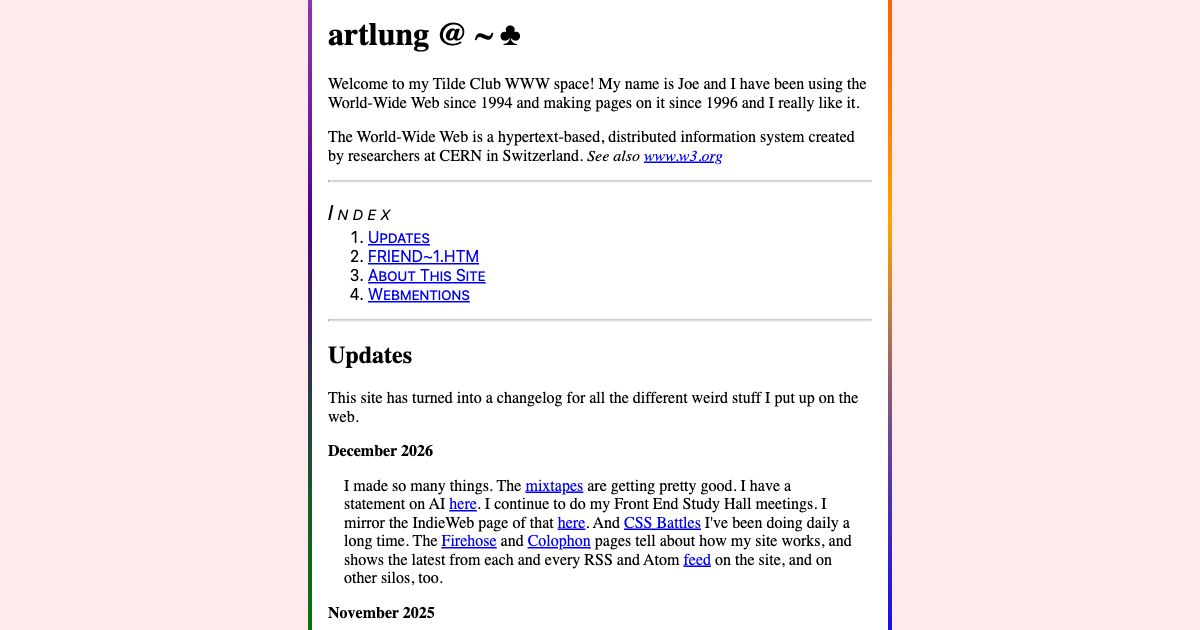
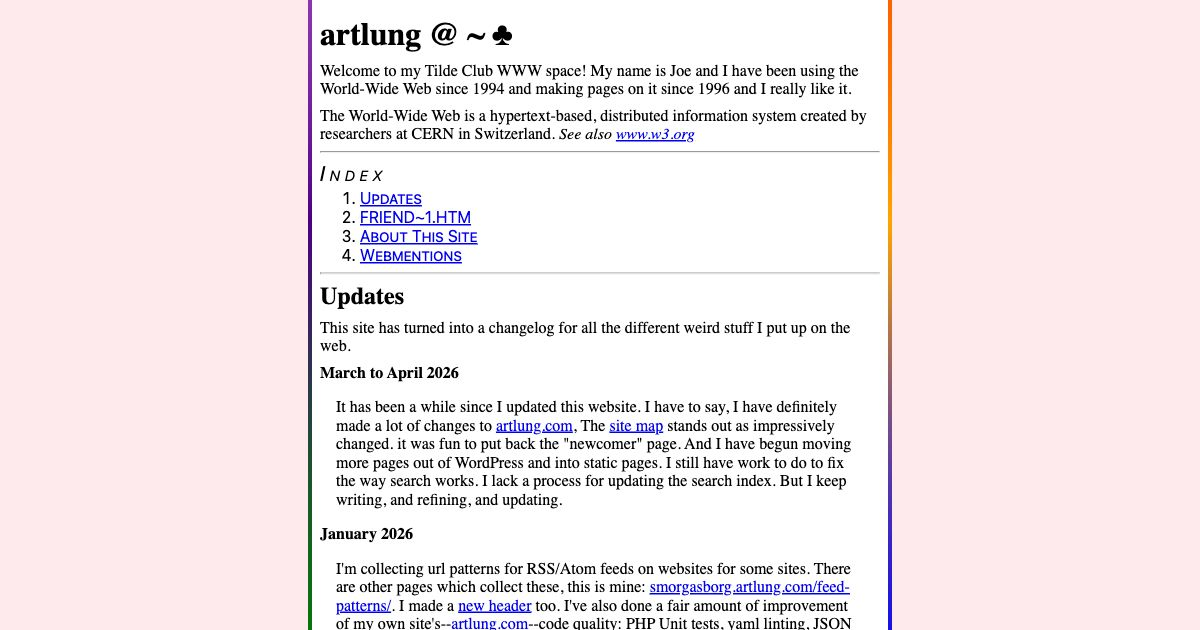
Latest OG image and changes for Spring

Changed region(s): [[0.2467, 0.0302, 0.74, 1.0]]

diff --git a/public_html/tilde.css b/public_html/tilde.css
@@ -1,1 +1,1 @@
-html{height:100%;color-scheme:light dark}body{--baseColor: #fff;--leastColor: #fee9ec}@media screen and (prefers-color-scheme: dark){body{--baseColor: #191919;--leastColor: rebeccapurple}}body{max-width:72ch;box-sizing:border-box;margin:0 auto;padding:2ch;min-height:100%;transition:background .5s ease-in-out;animation:swirl 6s infinite;--from: 45deg;background:linear-gradient(var(--baseColor), var(--baseColor)) 50% 50%/72ch 200% repeat-y,conic-gradient(from var(--from), red, orange, blue, green, indigo, violet) 50% 50%/73ch 100vh no-repeat var(--leastColor);background-attachment:fixed}body>p:last-child{padding:0 0 3ch 0}dt{font-weight:bold}dd{margin:1em}form[method=post]{margin:0;display:grid;gap:1rem;padding:1rem;background:#ffffe0;border:2px solid #ff0;font-family:system-ui,sans-serif;color:#666}form[method=post] *{margin:0;padding:0;display:block;width:100%;font-family:sans-serif;font-size:1rem}form[method=post] input{padding:.5rem}form:has(h2) h2>b{color:color-mix(in srgb, currentColor 80%, yellowgreen);background:#9acd32;aspect-ratio:1;border-radius:50%;display:inline-flex;justify-content:center;gap:2px;align-items:center;padding:2px;font-weight:normal;font-size:1.5rem;position:relative;border:1px solid}form:has(h2) h2>i{font-size:1rem;font-weight:normal;font-family:system-ui,sans-serif;display:inline-block;max-height:0;overflow:hidden;transition:max-height .3s linear}form:has(h2) form:has(h2) h2>i{padding:.5lh;background:#9acd32;line-height:1.4rem;margin:1lh 0}form:has(h2):has(input:checked) h2>i{margin:1lh 0 0;max-height:10lh;border:1px solid;background:#9acd32;padding:1lh}form:has(h2):has(input:checked) h2>b::after{content:"";position:absolute;display:block;height:1lh;overflow:hidden;background:#9acd32;bottom:-1lh;border-inline:1px solid;width:.2rem}@keyframes swirl{0%{--from: 0deg}50%{--from: 350deg}100%{--from: 0deg}}h2:has(+dl+form){border:3px double orange;background:bisque;padding:.1rem .5rem;line-height:1;color:#fa7b7b;font-family:sans-serif}dl:has(+form){display:grid;font-family:sans-serif;gap:.33rem;margin:0 0 1rem .75rem}dl:has(+form) dt{font-weight:normal;color:#fa7b7b}dl:has(+form) dd{margin:0 0 0 1rem;display:flex;gap:1rem;justify-content:start;align-items:center}dl:has(+form) dd img{opacity:.9;width:1.5rem;aspect-ratio:1;border-radius:50%}a:has(img[ismap]){display:block;width:min-content}a:has(img[ismap]) img{display:block;width:549px;height:60px}h2:has(+a[name=INDEX]),a[name=INDEX]~ol{font-family:system-ui,sans-serif;font-variant-caps:petite-caps;font-size:1rem}h2:has(+a[name=INDEX]){margin-bottom:-0.8rem;letter-spacing:.3rem;font-size:1.3rem;font-style:italic;font-weight:400}
+html{height:100%;color-scheme:light dark}body{--baseColor: #fff;--leastColor: #fee9ec}@media screen and (prefers-color-scheme: dark){body{--baseColor: #191919;--leastColor: rebeccapurple}}*{box-sizing:border-box}body{box-sizing:border-box;margin:0 auto;padding:2ch;min-height:100%;transition:background .5s ease-in-out;animation:swirl 6s infinite;--from: 45deg;background:linear-gradient(var(--baseColor), var(--baseColor)) 50% 50%/72ch 200% repeat-y,conic-gradient(from var(--from), red, orange, blue, green, indigo, violet) 50% 50%/73ch 100vh no-repeat var(--leastColor);background-attachment:fixed;display:grid;gap:.5rem}body>*{max-width:35rem;margin:auto;width:100%}body>p:last-child{padding:0 0 3ch 0}dt{font-weight:bold}dd{margin:1em}form[method=post]{margin:0 auto;display:grid;gap:1rem;padding:1rem;background:#ffffe0;border:2px solid #ff0;font-family:system-ui,sans-serif;color:#666}form[method=post] *{margin:0;padding:0;display:block;width:100%;font-family:sans-serif;font-size:1rem}form[method=post] input{padding:.5rem}form:has(h2) h2>b{display:inline-flex;color:color-mix(in srgb, currentColor 80%, yellowgreen);background:#9acd32;width:3.5rem;height:3.5rem;border-radius:50%;justify-content:center;gap:2px;align-items:center;padding:2px;font-weight:normal;font-size:1.5rem;position:relative;border:1px solid}form:has(h2) h2>i{font-size:1rem;font-weight:normal;font-family:system-ui,sans-serif;display:inline-block;max-height:0;overflow:hidden;transition:max-height .3s linear,background .3s linear,border .3s linear}form:has(h2) form:has(h2) h2>i{padding:.5lh;background:#9acd32;line-height:1.4rem;margin:1lh 0;transition:max-height .3s linear,background .3s linear,border .3s linear,mask 1s linear;mask:radial-gradient(circle at 50% 0, red 50%, rgba(0, 0, 0, 0)) 0 0/0 0 no-repeat}form:has(h2):has(input:checked) h2>i{margin:1lh 0 0;max-height:10lh;border:1px solid;background:#9acd32;padding:1lh;mask:radial-gradient(circle at 50% 0, red 50%, rgba(0, 0, 0, 0)) 0 0/100vw 100vh no-repeat}form:has(h2):has(input:checked) h2>b::after{content:"";position:absolute;display:block;height:1lh;overflow:hidden;background:#9acd32;bottom:-1lh;border-inline:1px solid;width:.2rem;cursor:pointer}@keyframes swirl{0%{--from: 0deg}50%{--from: 350deg}100%{--from: 0deg}}h2:has(+dl+form){border:3px double orange;background:bisque;padding:.1rem .5rem;line-height:1;color:#fa7b7b;font-family:sans-serif}dl:has(+form){display:grid;font-family:sans-serif;gap:.33rem;margin:0 auto 1rem auto}dl:has(+form) dt{font-weight:normal;color:#fa7b7b}dl:has(+form) dd{margin:0 0 0 1rem;display:flex;gap:1rem;justify-content:start;align-items:center}dl:has(+form) dd img{opacity:.9;width:1.5rem;aspect-ratio:1;border-radius:50%}a:has(img[ismap]){display:block}a:has(img[ismap]) img{display:block;aspect-ratio:549/60;width:100%;height:auto}h2:has(+a[name=INDEX]),a[name=INDEX]~ol{font-family:system-ui,sans-serif;font-variant-caps:petite-caps;font-size:1rem}h2:has(+a[name=INDEX]){margin-bottom:-0.8rem;letter-spacing:.3rem;font-size:1.3rem;font-style:italic;font-weight:400}

diff --git a/public_html/tilde.scss b/public_html/tilde.scss
@@ -2,18 +2,24 @@ html {
   height: 100%;
   color-scheme: light dark;
 }
+
 body {
   --baseColor: #fff;
   --leastColor: #fee9ec;
 }
+
 @media screen and (prefers-color-scheme: dark) {
-body {
-  --baseColor: #191919;
-  --leastColor: rebeccapurple;
+  body {
+    --baseColor: #191919;
+    --leastColor: rebeccapurple;
+  }
 }
+
+* {
+  box-sizing: border-box;
 }
+
 body {
-  max-width: 72ch;
   box-sizing: border-box;
   margin: 0 auto;
   padding: 2ch;
@@ -21,8 +27,16 @@ body {
   transition: background 0.5s ease-in-out;
   animation: swirl 6s infinite;
   --from: 45deg;
-  background: linear-gradient(var(--baseColor), var(--baseColor)) 50% 50%/72ch 200% repeat-y,conic-gradient(from var(--from), red, orange, blue, green, indigo, violet) 50% 50%/73ch 100vh no-repeat var(--leastColor);
+  background: linear-gradient(var(--baseColor), var(--baseColor)) 50% 50%/72ch 200% repeat-y, conic-gradient(from var(--from), red, orange, blue, green, indigo, violet) 50% 50%/73ch 100vh no-repeat var(--leastColor);
   background-attachment: fixed;
+  display: grid;
+  gap: 0.5rem;
+
+  > * {
+    max-width: 35rem;
+    margin: auto;
+    width: 100%;
+  }
 
   > p:last-child {
     padding: 0 0 3ch 0;
@@ -39,7 +53,7 @@ dd {
 
 
 form[method="post"] {
-  margin: 0;
+  margin: 0 auto;
   display: grid;
   gap: 1rem;
   padding: 1rem;
@@ -56,21 +70,25 @@ form[method="post"] {
     font-family: sans-serif;
     font-size: 1rem;
   }
+
   input {
     padding: 0.5rem;
   }
 }
+
 form:has(h2) {
   h2 {
     > samp {
 
     }
+
     > b {
+      display: inline-flex;
       color: color-mix(in srgb, currentColor 80%, yellowgreen);
       background: yellowgreen;
-      aspect-ratio: 1;
+      width: 3.5rem;
+      height: 3.5rem;
       border-radius: 50%;
-      display: inline-flex;
       justify-content: center;
       gap: 2px;
       align-items: center;
@@ -80,14 +98,15 @@ form:has(h2) {
       position: relative;
       border: 1px solid;
     }
+
     > i {
       font-size: 1rem;
       font-weight: normal;
       font-family: system-ui, sans-serif;
       display: inline-block;
-      max-height:0;
-      overflow:hidden;
-      transition:max-height 0.3s linear;
+      max-height: 0;
+      overflow: hidden;
+      transition: max-height .3s linear, background .3s linear, border .3s linear;
     }
   }
 
@@ -96,6 +115,8 @@ form:has(h2) {
     background: yellowgreen;
     line-height: 1.4rem;
     margin: 1lh 0;
+    transition: max-height .3s linear, background .3s linear, border .3s linear, mask 1s linear;
+    mask: radial-gradient(circle at 50% 0, red 50%, #0000) 0 0/0 0 no-repeat;
   }
 
   &:has(input:checked) {
@@ -106,7 +127,9 @@ form:has(h2) {
         border: 1px solid;
         background: yellowgreen;
         padding: 1lh;
+        mask: radial-gradient(circle at 50% 0, red 50%, #0000) 0 0/100vw 100vh no-repeat;
       }
+
       > b {
         &::after {
           content: '';
@@ -118,6 +141,7 @@ form:has(h2) {
           bottom: -1lh;
           border-inline: 1px solid;
           width: 0.2rem;
+          cursor: pointer;
         }
       }
     }
@@ -137,6 +161,7 @@ form:has(h2) {
     --from: 0deg;
   }
 }
+
 h2:has(+ dl + form) {
   border: 3px double orange;
   background: bisque;
@@ -150,18 +175,20 @@ dl:has(+ form) {
   display: grid;
   font-family: sans-serif;
   gap: 0.33rem;
-  margin: 0 0 1rem 0.75rem;
+  margin: 0 auto 1rem auto;;
 
   dt {
     font-weight: normal;
     color: #fa7b7b;
   }
+
   dd {
     margin: 0 0 0 1rem;
     display: flex;
     gap: 1rem;
     justify-content: start;
     align-items: center;
+
     img {
       opacity: 0.9;
       width: 1.5rem;
@@ -174,17 +201,18 @@ dl:has(+ form) {
 
 a:has(img[ismap]) {
   display: block;
-  width: min-content;
+
   img {
     display: block;
-    width: 549px;
-    height: 60px;
+    aspect-ratio: 549/60;
+    width: 100%;
+    height: auto;
   }
 }
 
 
 h2:has(+ a[name="INDEX"]), a[name="INDEX"] ~ ol {
-  font-family: system-ui,sans-serif;
+  font-family: system-ui, sans-serif;
   font-variant-caps: petite-caps;
   font-size: 1rem;
 }

diff --git a/public_html/index.php b/public_html/index.php
@@ -75,7 +75,28 @@ www.w3.org</A></I></P>
 
 <DL>
     <DT>
-        December 2026
+        March to April 2026
+    </DT>
+    <DD>
+        <P>
+            It has been a while since I updated this website. I have to say, I have definitely made a lot of changes to <A HREF="https://artlung.com/">artlung.com</A>, The <A HREF="https://artlung.com/sitemap/">site map</A> stands out as impressively changed. it was fun to put back the "newcomer" page. And I have begun moving more pages out of WordPress and into static pages. I still have work to do to fix the way search works. I lack a process for updating the search index. But I keep writing, and refining, and updating.
+        </P>
+    </DD>
+
+    <DT>
+        January 2026
+    </DT>
+
+    <DD>
+        <P>
+            I'm collecting url patterns for RSS/Atom feeds on websites for some sites. There are other pages which collect these, this is mine:
+            <A HREF="https://smorgasborg.artlung.com/feed-patterns/">smorgasborg.artlung.com/feed-patterns/</A>. I made a <a href="https://artlung.com/headers/-20260116">new header</a> too.
+            I've also done a fair amount of improvement of my own site's--<a href="https://artlung.com/">artlung.com</a>--code quality: PHP Unit tests, yaml linting, JSON formatting, and even some spelling fixes.
+        </P>
+    </DD>
+
+    <DT>
+        December 2025
     </DT>
     <DD>
         <P>
